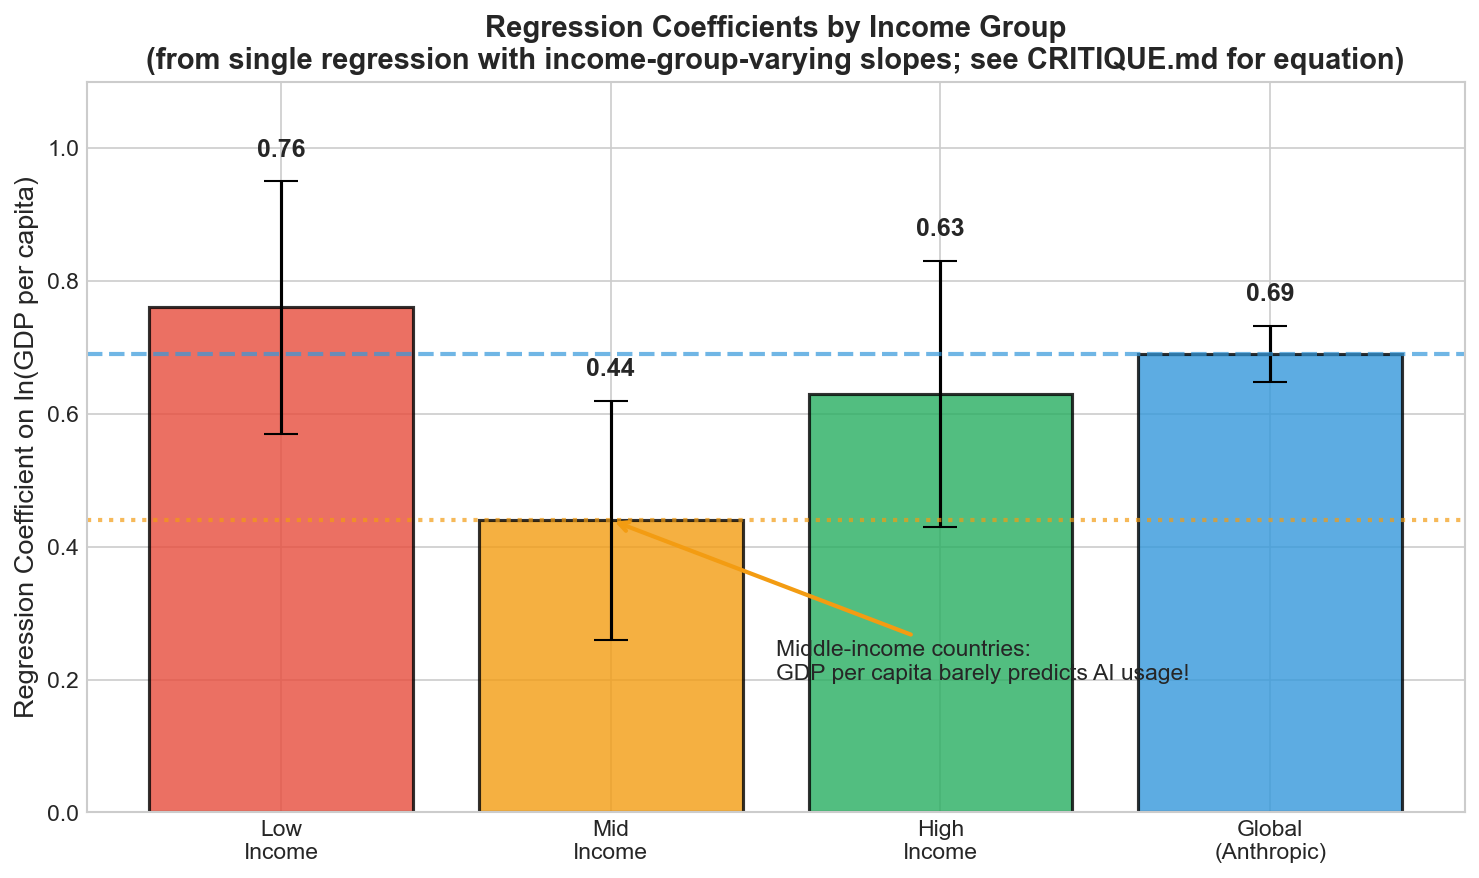
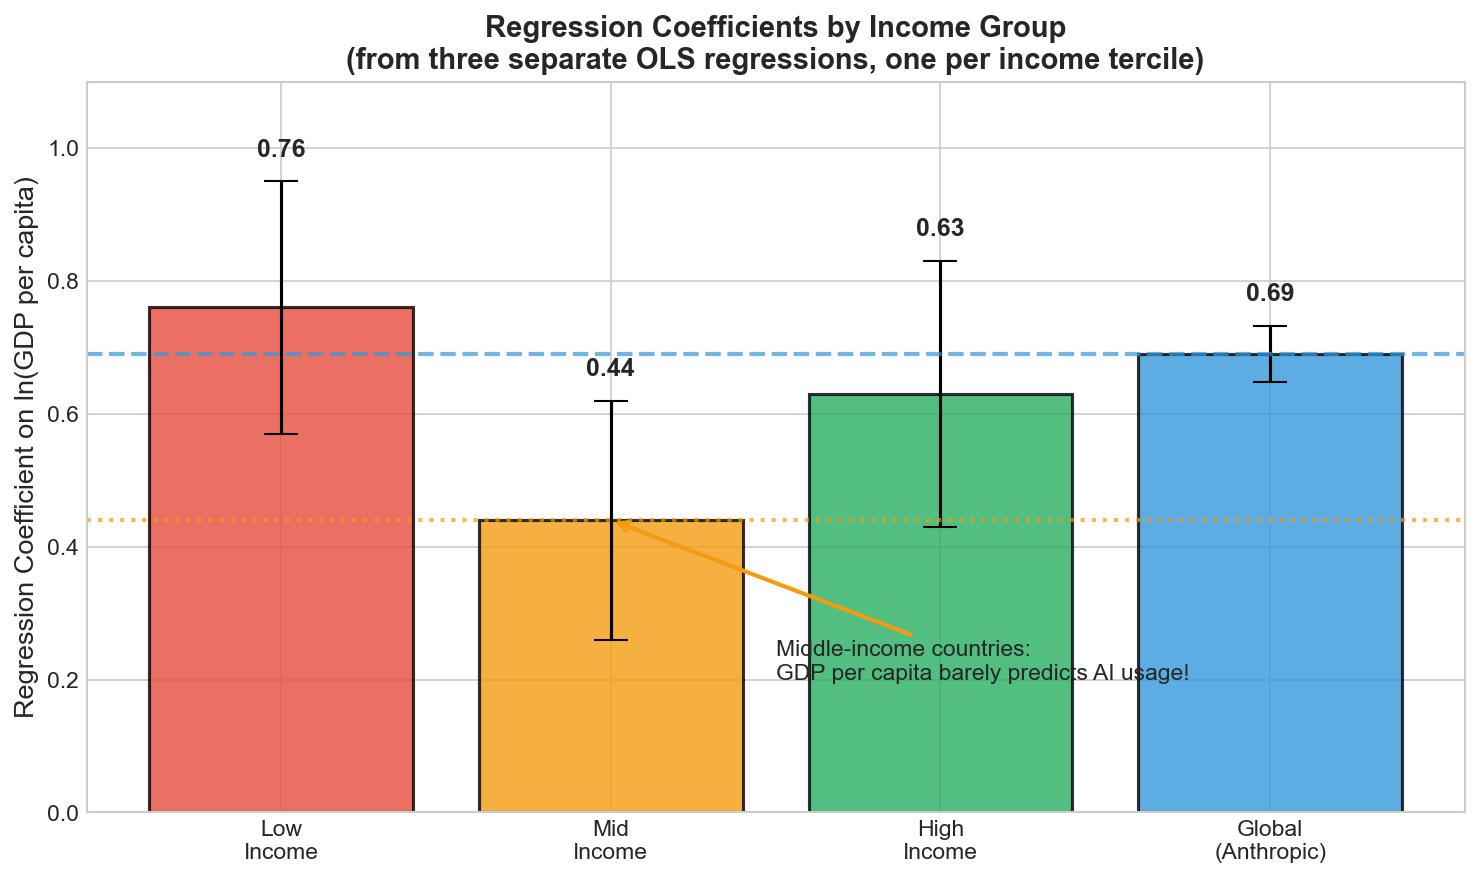
Update Figure 2 title to reflect separate regressions
Remove CRITIQUE.md reference, clarify methodology.

Changed region(s): [[0.0933, 0.0308, 0.9642, 0.0923]]

diff --git a/create_figures.py b/create_figures.py
@@ -138,7 +138,7 @@ ax.axhline(0.69, color='#3498db', linestyle='--', linewidth=2, alpha=0.7, label=
 ax.axhline(0.44, color='#f39c12', linestyle=':', linewidth=2, alpha=0.7)
 
 ax.set_ylabel('Regression Coefficient on ln(GDP per capita)', fontsize=13)
-ax.set_title('Regression Coefficients by Income Group\n(from single regression with income-group-varying slopes; see CRITIQUE.md for equation)', fontsize=14, fontweight='bold')
+ax.set_title('Regression Coefficients by Income Group\n(from three separate OLS regressions, one per income tercile)', fontsize=14, fontweight='bold')
 ax.set_ylim(0, 1.1)
 
 # Add value labels
